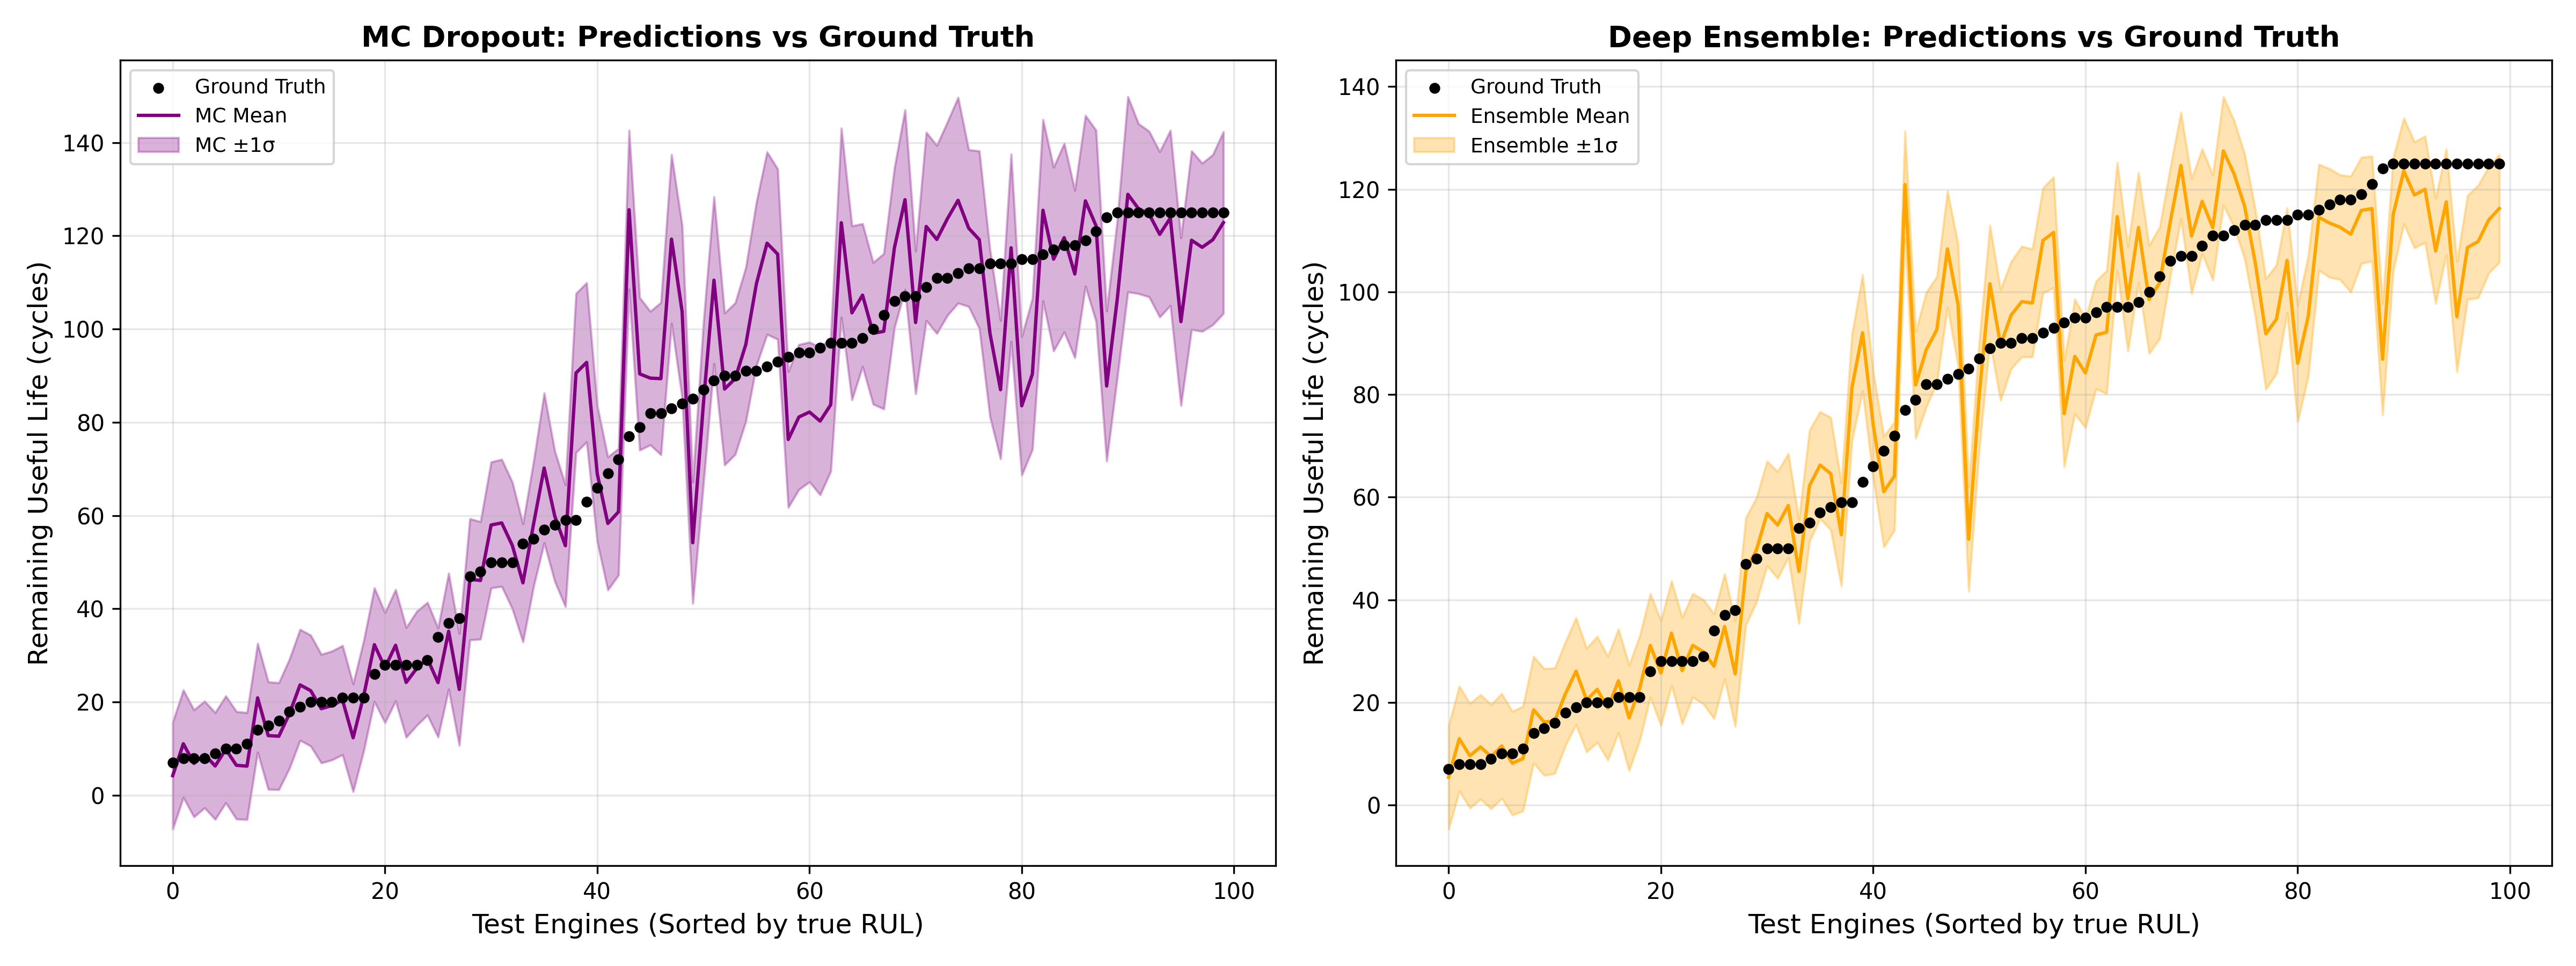
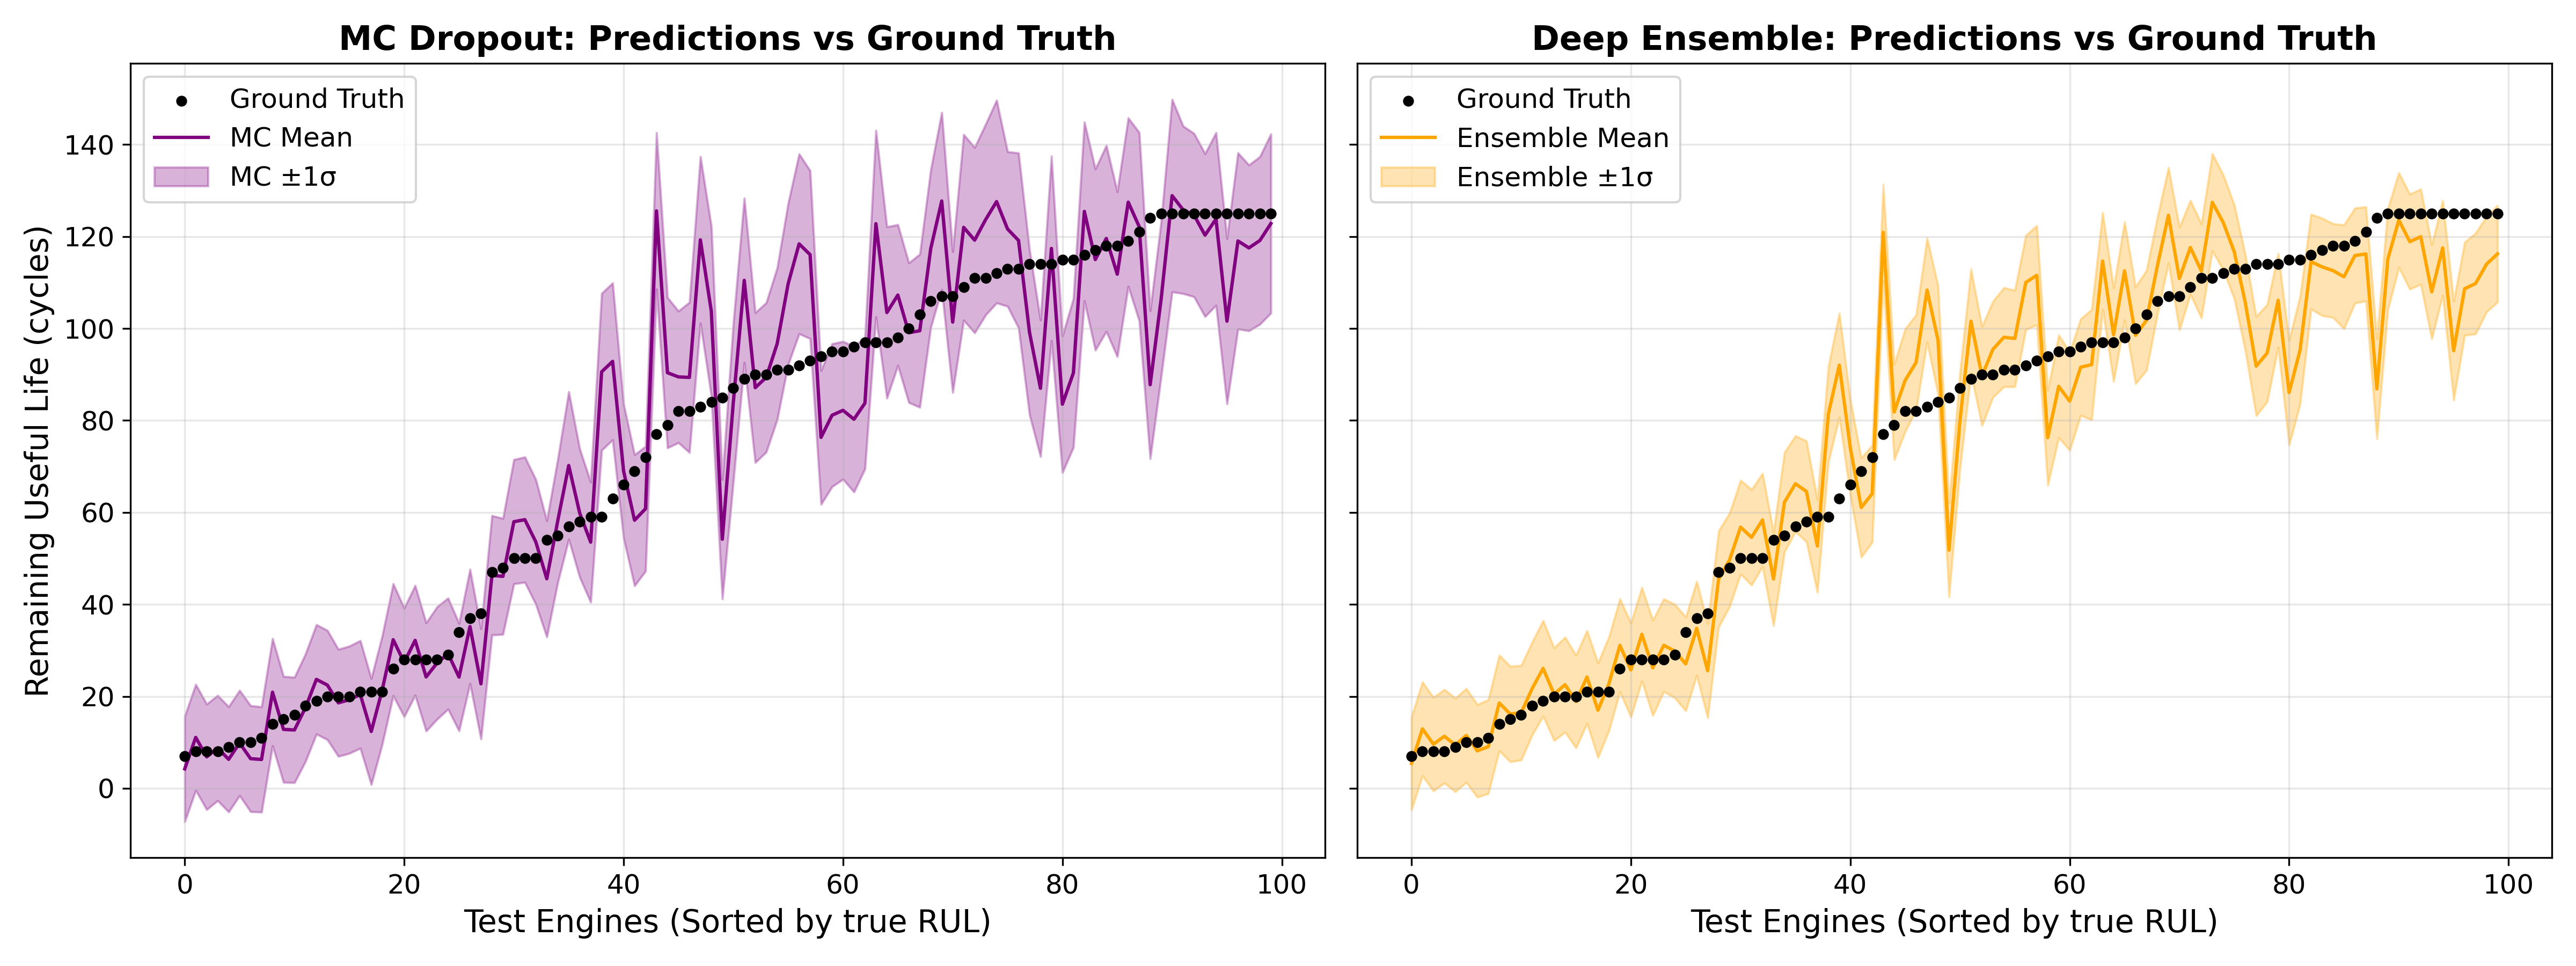
part 3 af

Changed region(s): [[0.0, 0.0311, 1.0, 0.9644], [0.5312, 0.8711, 1.0, 0.9644]]

diff --git a/src/part3_uq_lstm.py b/src/part3_uq_lstm.py
@@ -22,7 +22,7 @@ OUTPUT_DIR = "Output/part3"
 RUL_CAP = 125
 MC_DROPOUT_PASSES = 40
 FINAL_EPOCHS = 150
-EPOCHS_DE = 150 
+EPOCHS_DE = 150
 N_DE_MODELS = 6  # Number of models in the Deep Ensemble
 MAX_DE_MODELS = 12  # For DE elbow method
 MAX_MC_PASSES = 100  # For MC elbow method
@@ -440,7 +440,9 @@ def main():
     
     mc_mean, mc_var = mc_dropout_lstm_predict(mc_model, X_test, num_passes=MC_DROPOUT_PASSES)
 
-    plot_mc_dropout_elbow(mc_model, X_val, y_val, max_passes=MAX_MC_PASSES, step=5, MC_DROPOUT_PASSES=MC_DROPOUT_PASSES)
+    GENERATE_ELBOW_PLOT_MC = False  # Set to True to generate the MC Dropout elbow plot
+    if GENERATE_ELBOW_PLOT_MC:
+        plot_mc_dropout_elbow(mc_model, X_val, y_val, max_passes=MAX_MC_PASSES, step=5, MC_DROPOUT_PASSES=MC_DROPOUT_PASSES)
     
     # Add Aleatoric Noise
     mc_train_mean, _ = mc_dropout_lstm_predict(mc_model, X_tr, num_passes=MC_DROPOUT_PASSES)
@@ -454,9 +456,9 @@ def main():
     # ====================================================================
     # METHOD 2: DEEP ENSEMBLE
     # ====================================================================
-    GENERATE_ELBOW_PLOT = False  # Set to True to generate the Deep Ensemble elbow plot
+    GENERATE_ELBOW_PLOT_DE = False  # Set to True to generate the Deep Ensemble elbow plot
 
-    if GENERATE_ELBOW_PLOT:
+    if GENERATE_ELBOW_PLOT_DE:
         # 1. Train the maximum amount of models required for the elbow plot
         de_ensemble_full = train_lstm_ensemble(X_tr, y_tr, X_val, y_val, BEST_CFG, num_features, n_models=MAX_DE_MODELS)
         # 2. Generate the RMSE elbow plot using the full 15-model ensemble